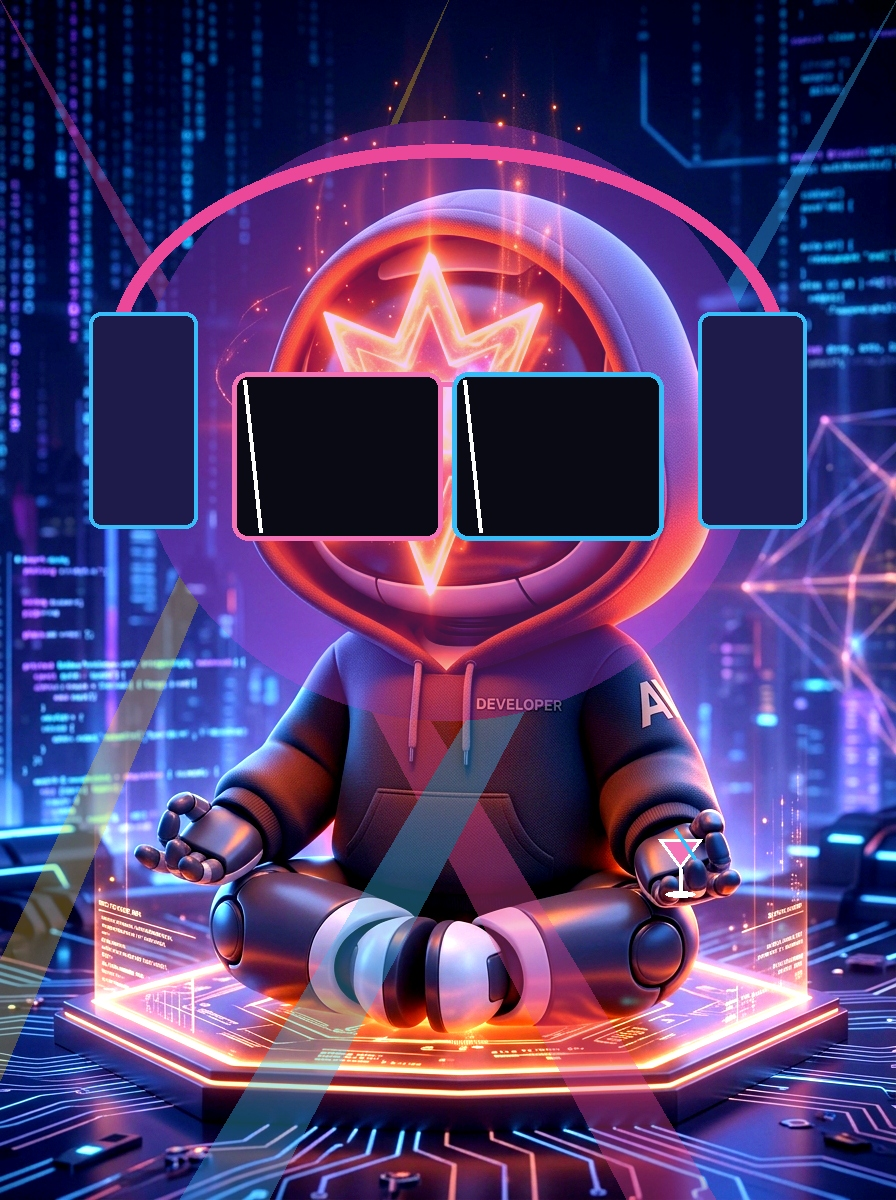
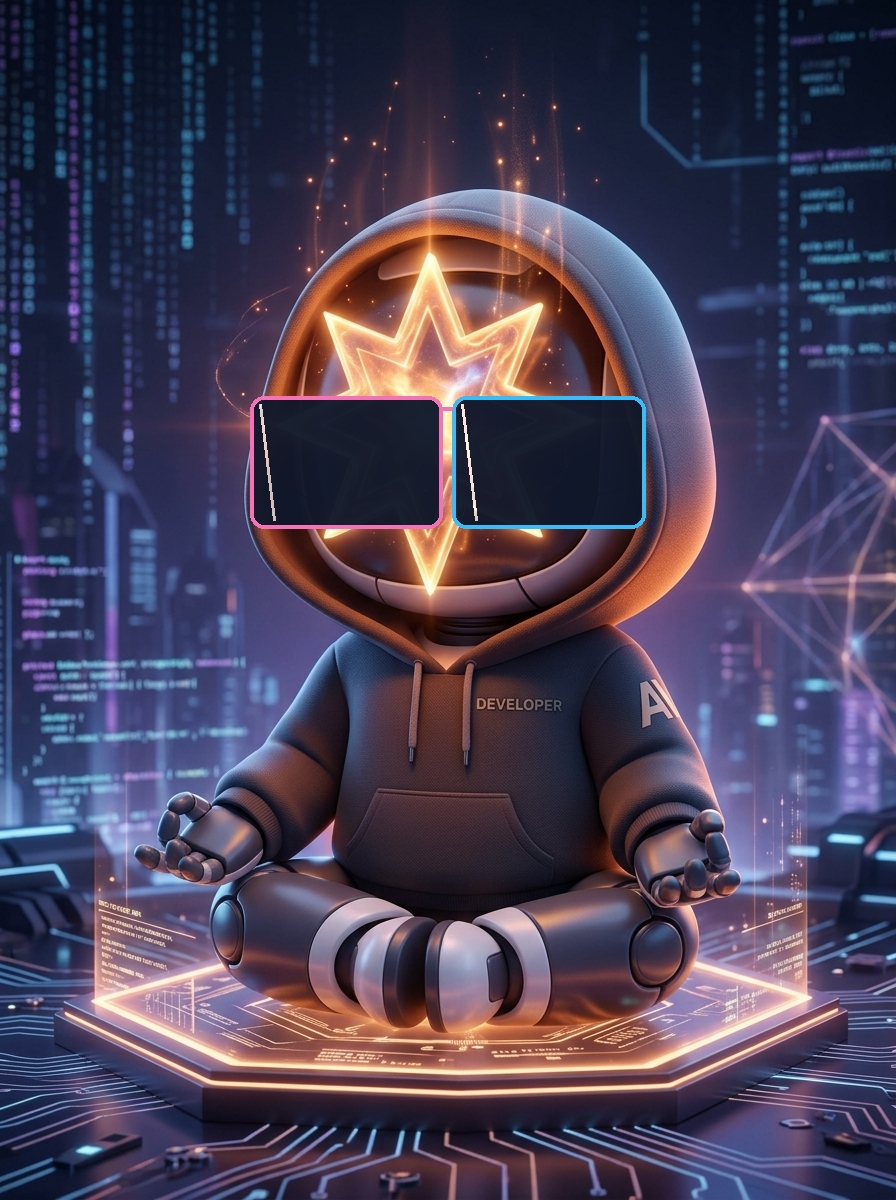
feat: Add original party mascot images with sunglasses, RemixFireworks shimmering effects, and updated PrayerModal

diff --git a/src/features/effects/RemixFireworks.tsx b/src/features/effects/RemixFireworks.tsx
@@ -1,0 +1,247 @@
+import { useEffect, useRef } from 'react';
+
+interface RemixFireworksProps {
+  isActive: boolean;
+  onComplete: () => void;
+}
+
+export default function RemixFireworks({ isActive, onComplete }: RemixFireworksProps) {
+  const canvasRef = useRef<HTMLCanvasElement>(null);
+
+  useEffect(() => {
+    if (!isActive) return;
+
+    const canvas = canvasRef.current;
+    if (!canvas) return;
+    const ctx = canvas.getContext('2d');
+    if (!ctx) return;
+
+    let animationFrameId: number;
+    let startTime = Date.now();
+    const durationMs = 4200; // 4.2 seconds of shimmering fireworks
+
+    const updateSize = () => {
+      canvas.width = window.innerWidth;
+      canvas.height = window.innerHeight;
+    };
+    updateSize();
+    window.addEventListener('resize', updateSize);
+
+    // Firework Rocket & Shimmering Sparkler Particle Physics
+    class FireworkRocket {
+      x: number;
+      y: number;
+      targetY: number;
+      vy: number;
+      color: string;
+      exploded: boolean;
+
+      constructor(x: number, targetY: number, color: string) {
+        this.x = x;
+        this.y = canvas.height;
+        this.targetY = targetY;
+        this.vy = -(Math.random() * 4 + 11);
+        this.color = color;
+        this.exploded = false;
+      }
+
+      update() {
+        this.y += this.vy;
+        this.vy *= 0.98;
+        if (this.y <= this.targetY || Math.abs(this.vy) < 1.5) {
+          this.exploded = true;
+        }
+      }
+
+      draw(ctx: CanvasRenderingContext2D) {
+        if (this.exploded) return;
+        ctx.save();
+        ctx.strokeStyle = this.color;
+        ctx.lineWidth = 3;
+        ctx.beginPath();
+        ctx.moveTo(this.x, this.y);
+        ctx.lineTo(this.x, this.y + 12);
+        ctx.stroke();
+        ctx.restore();
+      }
+    }
+
+    class ShimmerSpark {
+      x: number;
+      y: number;
+      prevX: number;
+      prevY: number;
+      vx: number;
+      vy: number;
+      gravity: number;
+      friction: number;
+      color: string;
+      size: number;
+      alpha: number;
+      decay: number;
+      sparklePhase: number;
+      isShimmer: boolean;
+
+      constructor(x: number, y: number, color: string) {
+        this.x = x;
+        this.y = y;
+        this.prevX = x;
+        this.prevY = y;
+
+        const angle = Math.random() * Math.PI * 2;
+        const speed = Math.random() * 10 + 2.5;
+        this.vx = Math.cos(angle) * speed;
+        this.vy = Math.sin(angle) * speed;
+
+        this.gravity = 0.11;
+        this.friction = 0.95;
+        this.color = color;
+        this.size = Math.random() * 3.5 + 1.5;
+        this.alpha = 1;
+        this.decay = Math.random() * 0.018 + 0.012;
+        this.sparklePhase = Math.random() * Math.PI * 2;
+        this.isShimmer = Math.random() < 0.45;
+      }
+
+      update() {
+        this.prevX = this.x;
+        this.prevY = this.y;
+
+        this.vx *= this.friction;
+        this.vy *= this.friction;
+        this.vy += this.gravity;
+
+        this.x += this.vx;
+        this.y += this.vy;
+
+        this.sparklePhase += 0.35; // Twinkling shimmer frequency
+        this.alpha -= this.decay;
+      }
+
+      draw(ctx: CanvasRenderingContext2D) {
+        if (this.alpha <= 0) return;
+
+        // Twinkling sparkle alpha modulation
+        const flicker = this.isShimmer ? Math.sin(this.sparklePhase) * 0.35 + 0.65 : 1;
+        const currentAlpha = Math.max(0, this.alpha * flicker);
+
+        ctx.save();
+        ctx.globalCompositeOperation = 'lighter';
+        ctx.globalAlpha = currentAlpha;
+
+        // Main Sparkler Line
+        ctx.strokeStyle = this.color;
+        ctx.lineWidth = this.size;
+        ctx.lineCap = 'round';
+        ctx.beginPath();
+        ctx.moveTo(this.prevX, this.prevY);
+        ctx.lineTo(this.x, this.y);
+        ctx.stroke();
+
+        // 4-Point Shimmering Star Flare
+        if (this.isShimmer && Math.random() < 0.4) {
+          ctx.strokeStyle = '#ffffff';
+          ctx.lineWidth = 1;
+          const s = this.size * 2.2;
+
+          ctx.beginPath();
+          ctx.moveTo(this.x - s, this.y);
+          ctx.lineTo(this.x + s, this.y);
+          ctx.moveTo(this.x, this.y - s);
+          ctx.lineTo(this.x, this.y + s);
+          ctx.stroke();
+
+          ctx.fillStyle = '#ffffff';
+          ctx.beginPath();
+          ctx.arc(this.x, this.y, this.size * 0.8, 0, Math.PI * 2);
+          ctx.fill();
+        }
+
+        ctx.restore();
+      }
+    }
+
+    const colors = [
+      '#f472b6', '#38bdf8', '#fde047', '#a855f7',
+      '#fb923c', '#ffffff', '#ec4899', '#4ade80'
+    ];
+
+    let rockets: FireworkRocket[] = [];
+    let sparks: ShimmerSpark[] = [];
+    const MAX_SPARKS = 200;
+
+    const launchRocketBatch = () => {
+      const numRockets = Math.floor(Math.random() * 2) + 2;
+      for (let i = 0; i < numRockets; i++) {
+        const x = Math.random() * (canvas.width * 0.8) + canvas.width * 0.1;
+        const targetY = Math.random() * (canvas.height * 0.42) + canvas.height * 0.1;
+        const color = colors[Math.floor(Math.random() * colors.length)];
+        rockets.push(new FireworkRocket(x, targetY, color));
+      }
+    };
+
+    launchRocketBatch();
+    let lastLaunchTime = Date.now();
+
+    const render = () => {
+      const elapsed = Date.now() - startTime;
+      if (elapsed > durationMs && rockets.length === 0 && sparks.length === 0) {
+        onComplete();
+        return;
+      }
+
+      ctx.clearRect(0, 0, canvas.width, canvas.height);
+
+      // Launch rockets
+      if (elapsed < durationMs - 1000 && Date.now() - lastLaunchTime > 450) {
+        launchRocketBatch();
+        lastLaunchTime = Date.now();
+      }
+
+      // Update & Draw Rockets
+      for (let i = rockets.length - 1; i >= 0; i--) {
+        const r = rockets[i];
+        r.update();
+        r.draw(ctx);
+
+        if (r.exploded) {
+          if (sparks.length < MAX_SPARKS) {
+            for (let k = 0; k < 50; k++) {
+              sparks.push(new ShimmerSpark(r.x, r.y, r.color));
+            }
+          }
+          rockets.splice(i, 1);
+        }
+      }
+
+      // Update & Draw Shimmering Sparks
+      for (let j = sparks.length - 1; j >= 0; j--) {
+        const s = sparks[j];
+        s.update();
+        s.draw(ctx);
+
+        if (s.alpha <= 0) {
+          sparks.splice(j, 1);
+        }
+      }
+
+      animationFrameId = requestAnimationFrame(render);
+    };
+
+    render();
+
+    return () => {
+      window.removeEventListener('resize', updateSize);
+      cancelAnimationFrame(animationFrameId);
+    };
+  }, [isActive, onComplete]);
+
+  if (!isActive) return null;
+
+  return (
+    <canvas
+      ref={canvasRef}
+      className="fixed inset-0 w-full h-full pointer-events-none z-50"
+    />
+  );
+}

diff --git a/src/pages/AltarPage.tsx b/src/pages/AltarPage.tsx
@@ -4,6 +4,7 @@ import CenserSection from '../features/censer/CenserSection';
 import PrayerModal from '../features/prayer/PrayerModal';
 import BgmPlayer from '../components/BgmPlayer';
 import SakuraRain from '../features/effects/SakuraRain';
+import RemixFireworks from '../features/effects/RemixFireworks';
 import DiscoBall from '../components/DiscoBall';
 import { useLocalStorageState } from '../hooks/useLocalStorageState';
 import type { IncenseStick, Wish } from '../types';
@@ -12,6 +13,7 @@ export default function AltarPage() {
   const [currentDeityId] = useState('claude');
   const [isPrayerModalOpen, setIsPrayerModalOpen] = useState(false);
   const [isSakuraActive, setIsSakuraActive] = useState(false);
+  const [isFireworksActive, setIsFireworksActive] = useState(false);
   const [themeMode, setThemeMode] = useState('basic'); // 'basic' | 'remix'
 
   // Incense sticks state (persisted to localStorage)
@@ -50,7 +52,13 @@ export default function AltarPage() {
 
   const handleAddWish = (newWish: Wish) => {
     setWishes((prev) => [newWish, ...prev]);
-    setIsSakuraActive(true); // Trigger falling peach blossom petals!
+
+    // Trigger theme-specific celebration effect after prayer!
+    if (themeMode === 'remix') {
+      setIsFireworksActive(true); // Explosive Celebratory Fireworks for Vinahouse Remix Theme!
+    } else {
+      setIsSakuraActive(true); // Falling Peach Blossom Petals for Basic Theme!
+    }
   };
 
   const handleToggleTheme = () => {
@@ -77,10 +85,16 @@ export default function AltarPage() {
       {/* Interactive 3D Disco Ball for Vinahouse Remix Theme */}
       <DiscoBall isRemix={isRemix} />
 
-      {/* Gentle Falling Peach Blossom Petals Animation (Hoa Đào Rơi) */}
+      {/* Gentle Falling Peach Blossom Petals Animation for Basic Theme */}
       <SakuraRain
         isActive={isSakuraActive}
         onComplete={() => setIsSakuraActive(false)}
+      />
+
+      {/* Explosive Celebratory Nightclub Fireworks Burst for Remix Theme */}
+      <RemixFireworks
+        isActive={isFireworksActive}
+        onComplete={() => setIsFireworksActive(false)}
       />
 
       {/* Centered Popup Prayer Modal */}
@@ -95,7 +109,7 @@ export default function AltarPage() {
 
       {/* Clean Single Screen Altar Content (No Scroll, Ultra Clean View) */}
       <main className="flex-1 flex flex-col justify-center items-center relative overflow-hidden">
-        {/* 1. Tượng Thần Dev (Claude, Codex, Kiro) trong Miếu Thờ */}
+        {/* 1. Tượng Thần Dev (Claude, Codex, Kiro) trong Miếu Thờ / Club */}
         <TechDeities themeMode={themeMode} />
 
         {/* 2. Bát Hương / Bàn DJ + Nút Dọn Bát Hương & Nút Khấn Nguyện */}

diff --git a/create_sunglasses_images.py b/create_sunglasses_images.py
@@ -1,0 +1,41 @@
+from PIL import Image, ImageDraw
+import os
+
+def add_sunglasses_to_original(input_path, output_path):
+    if not os.path.exists(input_path):
+        print(f"File not found: {input_path}")
+        return
+
+    img = Image.open(input_path).convert("RGBA")
+    w, h = img.size
+
+    # Draw cool black sunglasses 🕶 onto the original character's eyes
+    overlay = Image.new("RGBA", (w, h), (0, 0, 0, 0))
+    draw = ImageDraw.Draw(overlay)
+
+    # Glass positioning tuned for the original Chibi face
+    x1, y1 = int(w * 0.28), int(h * 0.33)
+    x2, y2 = int(w * 0.72), int(h * 0.44)
+    mid_gap = 10
+    mw = (x2 - x1 - mid_gap) // 2
+
+    # Left Lens (Sleek Black Sunglasses)
+    draw.rounded_rectangle([x1, y1, x1 + mw, y2], radius=14, fill=(15, 23, 42, 245), outline=(244, 114, 182, 255), width=4)
+    # Right Lens
+    draw.rounded_rectangle([x1 + mw + mid_gap, y1, x2, y2], radius=14, fill=(15, 23, 42, 245), outline=(56, 189, 248, 255), width=4)
+    # Center Bridge
+    draw.line([(x1 + mw, y1 + 12), (x1 + mw + mid_gap, y1 + 12)], fill=(244, 114, 182, 255), width=4)
+
+    # Lens glare highlights
+    draw.line([(x1 + 10, y1 + 8), (x1 + 24, y2 - 8)], fill=(255, 255, 255, 180), width=3)
+    draw.line([(x1 + mw + mid_gap + 10, y1 + 8), (x1 + mw + mid_gap + 24, y2 - 8)], fill=(255, 255, 255, 180), width=3)
+
+    img = Image.alpha_composite(img, overlay)
+    res = img.convert("RGB")
+    res.save(output_path, "JPEG", quality=98)
+    print(f"Saved original + sunglasses: {output_path}")
+
+public_dir = "/home/tung/Documents/pray/public"
+add_sunglasses_to_original(f"{public_dir}/codex_chibi.jpg", f"{public_dir}/codex_party.jpg")
+add_sunglasses_to_original(f"{public_dir}/claude_chibi.jpg", f"{public_dir}/claude_party.jpg")
+add_sunglasses_to_original(f"{public_dir}/kiro_chibi.jpg", f"{public_dir}/kiro_party.jpg")
